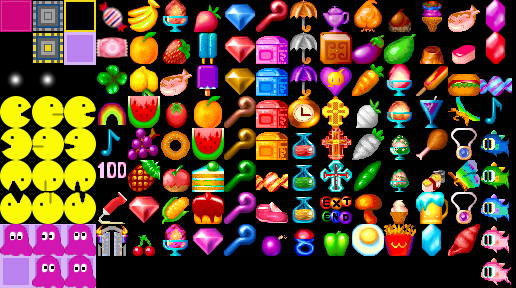
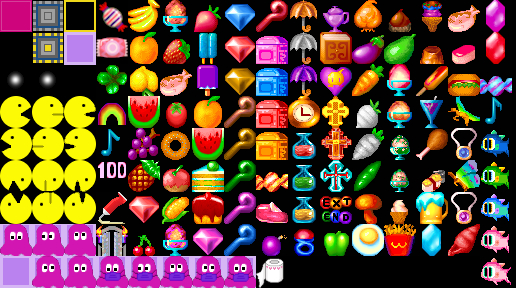
beaming

Changed region(s): [[0.186, 0.875, 0.5581, 1.0]]

diff --git a/code/main.py b/code/main.py
@@ -10,16 +10,18 @@ from customer import Customer
 from utils.constances import MARKET, TILES, OFS
 from utils.functions import get_transition_matrix, get_supermarket_data
 
-def go_to_next_minute(supermarket, frame, adding_prob = 0):
+def go_to_next_minute(market, supermarket, frame, adding_prob = 0):
   '''
   simulate next minute
   '''
+  market.draw(frame)
   if random() < adding_prob:
     supermarket.add_new_customers()
   supermarket.remove_exitsting_customers()
   supermarket.print_customers()
   supermarket.draw_customers(frame)
   supermarket.next_minute()
+  time.sleep(1)
   return supermarket
 
 def simulate_n_customers(n):
@@ -33,12 +35,11 @@ def simulate_n_customers(n):
   supermarket = Supermarket(market)
   for _ in range(n):
     supermarket.add_new_customers()
+  frame = background.copy()
 
   while len(supermarket.customers) > 0:
-    time.sleep(1)
-    frame = background.copy()
-    market.draw(frame)
-    go_to_next_minute(supermarket, frame)
+
+    go_to_next_minute(market, supermarket, frame)
     cv2.imshow("frame", frame)
 
     key = chr(cv2.waitKey(1) & 0xFF)
@@ -49,38 +50,4 @@ def simulate_n_customers(n):
 
 if __name__ == "__main__":
   simulate_n_customers(5)
-    # background = np.zeros((700, 1000, 3), np.uint8)
-
-    # market = SupermarketMap(MARKET, TILES)
-
-    # # instantiate a customer
-    # supermarket = Supermarket(market)
-    # supermarket.add_new_customers()
-    # supermarket.add_new_customers()
-
-    # while True:
-    #     time.sleep(1)
-    #     frame = background.copy()
-    #     market.draw(frame)
-    #     for customer in supermarket.customers:
-    #       customer.draw(frame)
-    #     supermarket.next_minute()
-    #     supermarket.print_customers()
-    #     cv2.imshow("frame", frame)
-
-    #     key = chr(cv2.waitKey(1) & 0xFF)
-    #     # if key == 'w':
-    #     #     customer.move('up')
-    #     # elif key == 'a':
-    #     #     customer.move('left')
-    #     # elif key == 'd':
-    #     #     customer.move('right')
-    #     # elif key == 's':
-    #     #     customer.move('down')
-
-    #     if key == "q":
-    #         break
-
-    # cv2.destroyAllWindows()
-
-    # market.write_image("./graphics/supermarket.png")
+    

diff --git a/code/customer.py b/code/customer.py
@@ -17,7 +17,7 @@ class Customer:
 
     # visualization
     self.terrain_map =  terrain_map
-    self.image =        TILES[7 * TILE_SIZE : 8 * TILE_SIZE, : TILE_SIZE]
+    self.image =        TILES[8 * TILE_SIZE : 9 * TILE_SIZE, 3 * TILE_SIZE: 4 *TILE_SIZE]
     self.x =            STATE_LOCATION[self.state][1]
     self.y =            STATE_LOCATION[self.state][0]
 
@@ -45,21 +45,21 @@ class Customer:
     self.x = STATE_LOCATION[self.state][1]
     self.y = STATE_LOCATION[self.state][0]
 
-  def move(self, direction):
-    new_x = self.x
-    new_y = self.y
-    if direction == 'up':
-        new_y -= 1
-    elif direction == 'down':
-        new_y += 1
-    elif direction == 'left':
-        new_x -= 1
-    elif direction == 'right':
-        new_x += 1
+  # def move(self, direction):
+  #   new_x = self.x
+  #   new_y = self.y
+  #   if direction == 'up':
+  #       new_y -= 1
+  #   elif direction == 'down':
+  #       new_y += 1
+  #   elif direction == 'left':
+  #       new_x -= 1
+  #   elif direction == 'right':
+  #       new_x += 1
 
-    if self.terrain_map.contents[new_y][new_x] == '.':
-        self.x = new_x
-        self.y = new_y
+  #   if self.terrain_map.contents[new_y][new_x] == '.':
+  #       self.x = new_x
+  #       self.y = new_y
 
   def draw(self, frame):
     x_pos = OFS + self.x * TILE_SIZE

diff --git a/code/a_star copy.py b/code/a_star copy.py
@@ -4,7 +4,6 @@ A* algorithm
 import operator
 import numpy as np
 
-from utils.constances import MARKET
 
 def heuristic(current,target):
     """calculating the estimated distance between the current node and the targeted node
@@ -90,34 +89,10 @@ if __name__ == '__main__':
         [0, 0, 0, 1, 0, 0],
         [0, 0, 0, 0, 0, 0]
     ])
-    grid = np.zeros((5, 6))
-    grid[1:3, 1:4] = 1
-    print(grid)
-    grid = [[0,0,0,0,0,0],
-            [0,0,1,1,1,0],
-            [0,0,1,1,0,0],
-            [0,0,0,1,0,0],
-            [0,0,0,0,0,0]]
-    grid = np.array(grid)
-
-    array1 = []
-    market = MARKET.split('\n')
-    for row in market:
-        array2 = []
-        for char in row:
-            if char == '.':
-                array2.append(0)
-            else:
-                array2.append(1)
-        array1.append(array2)
-    print(array1)
-    grid = np.array(array1)
 
     # y,x positions
-    # start_given = (1,0)
-    # finish_given = (2,5)
-    start_given = (8,3)
-    finish_given = (4,3)
+    start_given = (1,0)
+    finish_given = (2,5)
     possible_moves = [(0,1),(0,-1),(1,0),(-1,0),(1,1),(1,-1),(-1,1),(-1,-1)]
     path = find_path(grid, start_given, finish_given, possible_moves)
     print(path)
